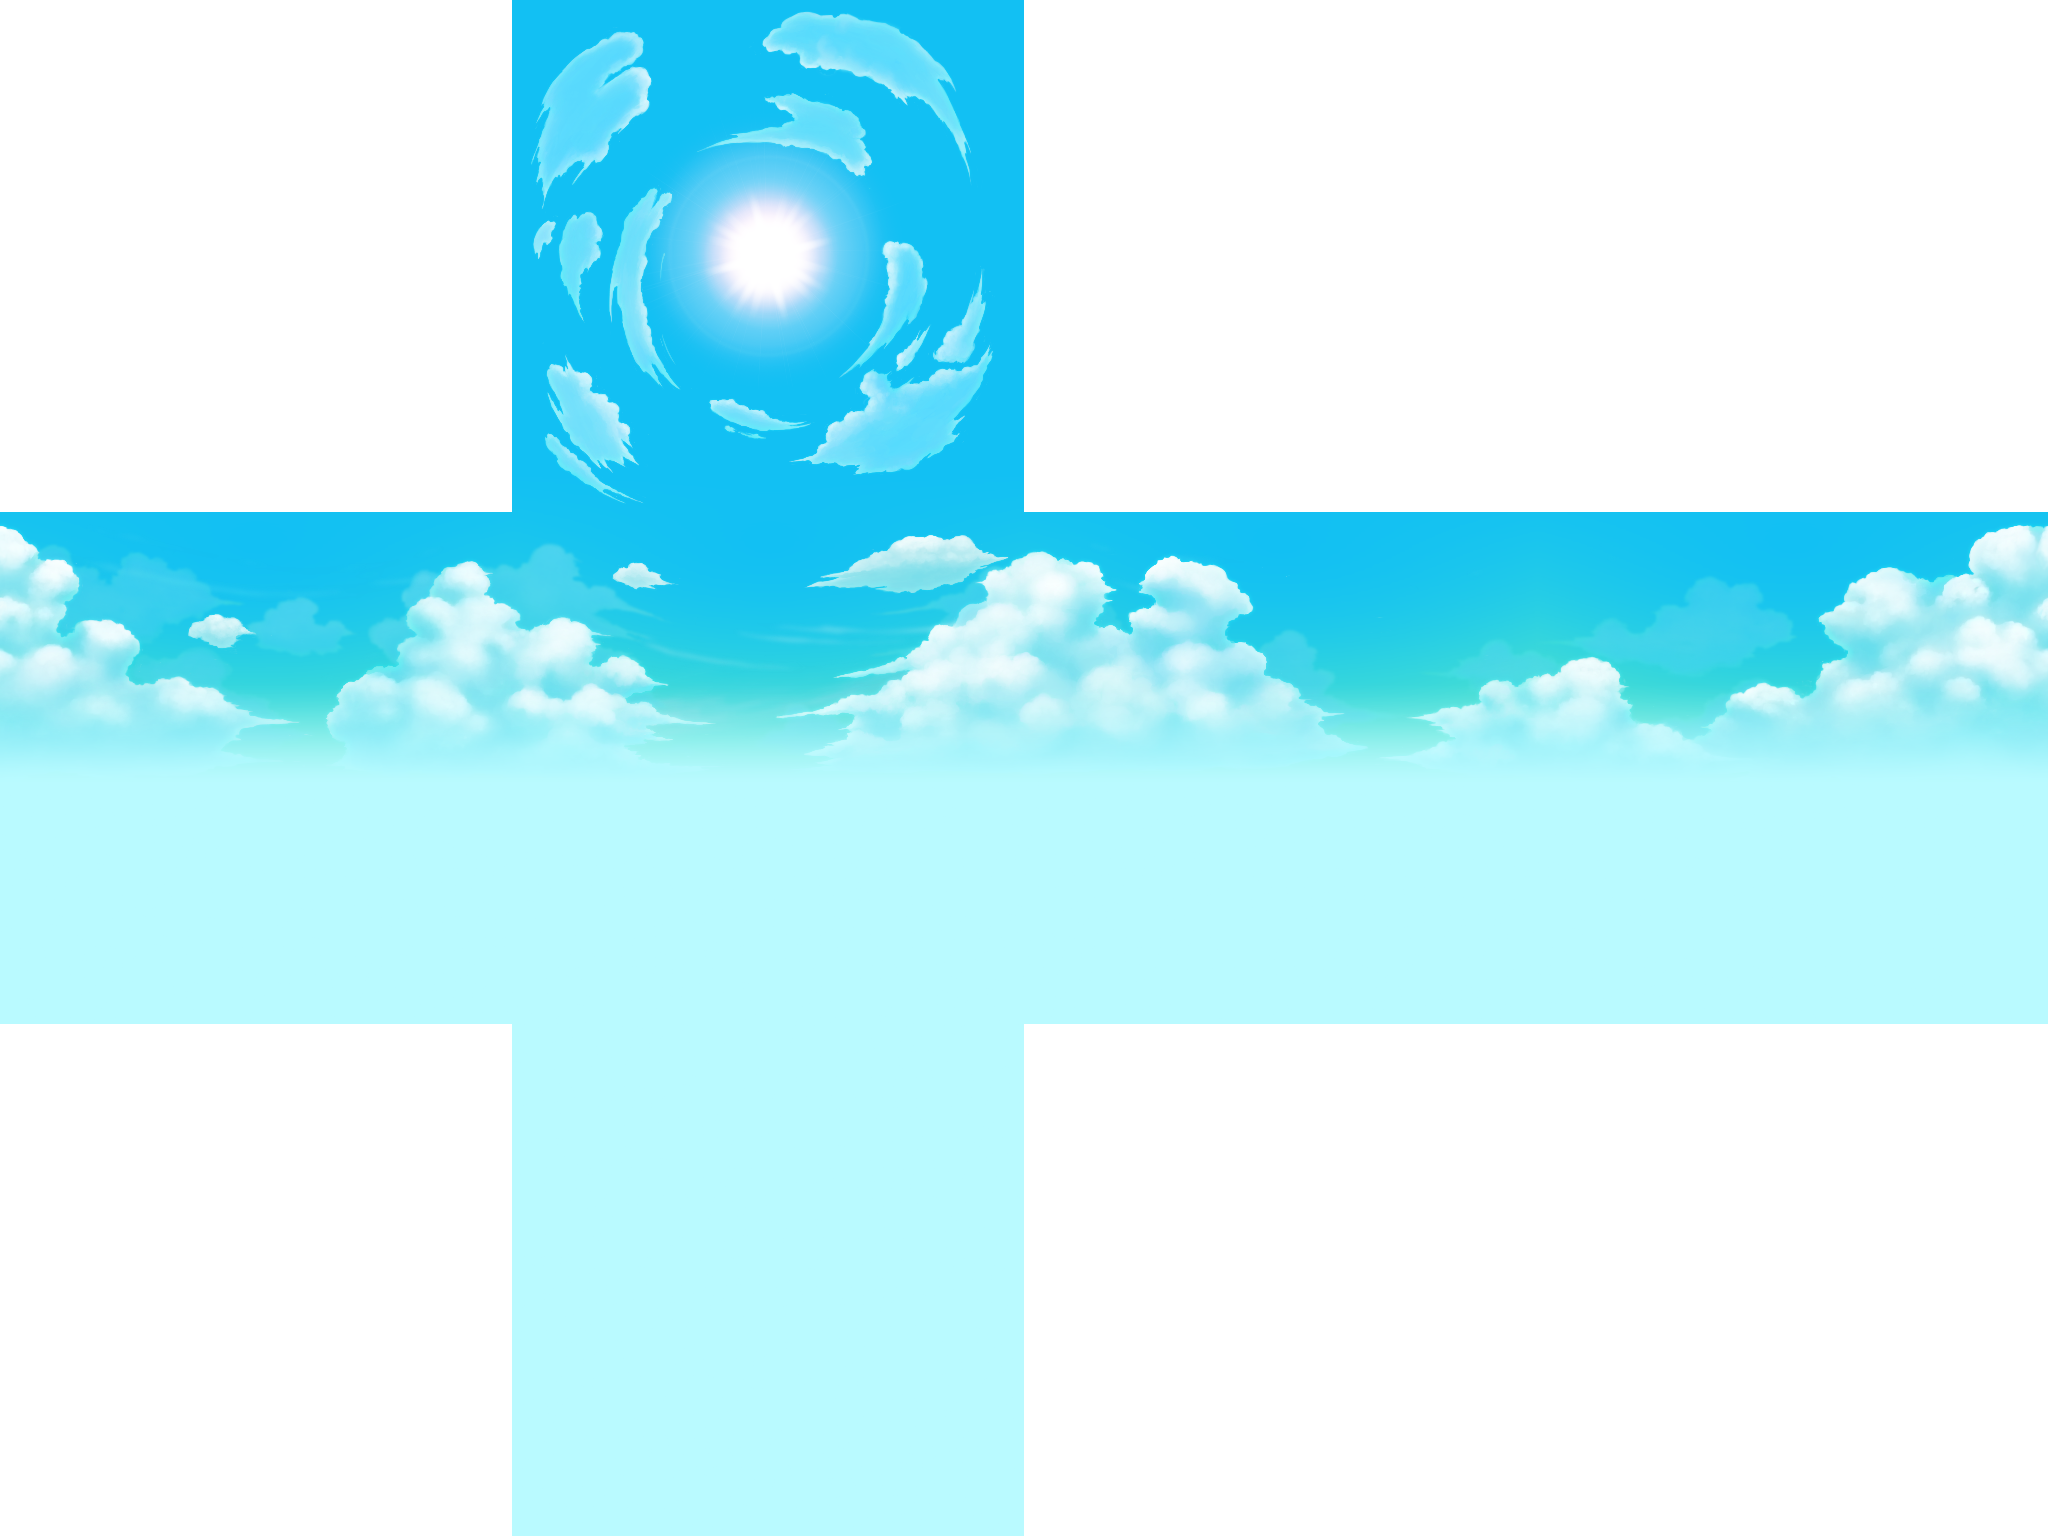
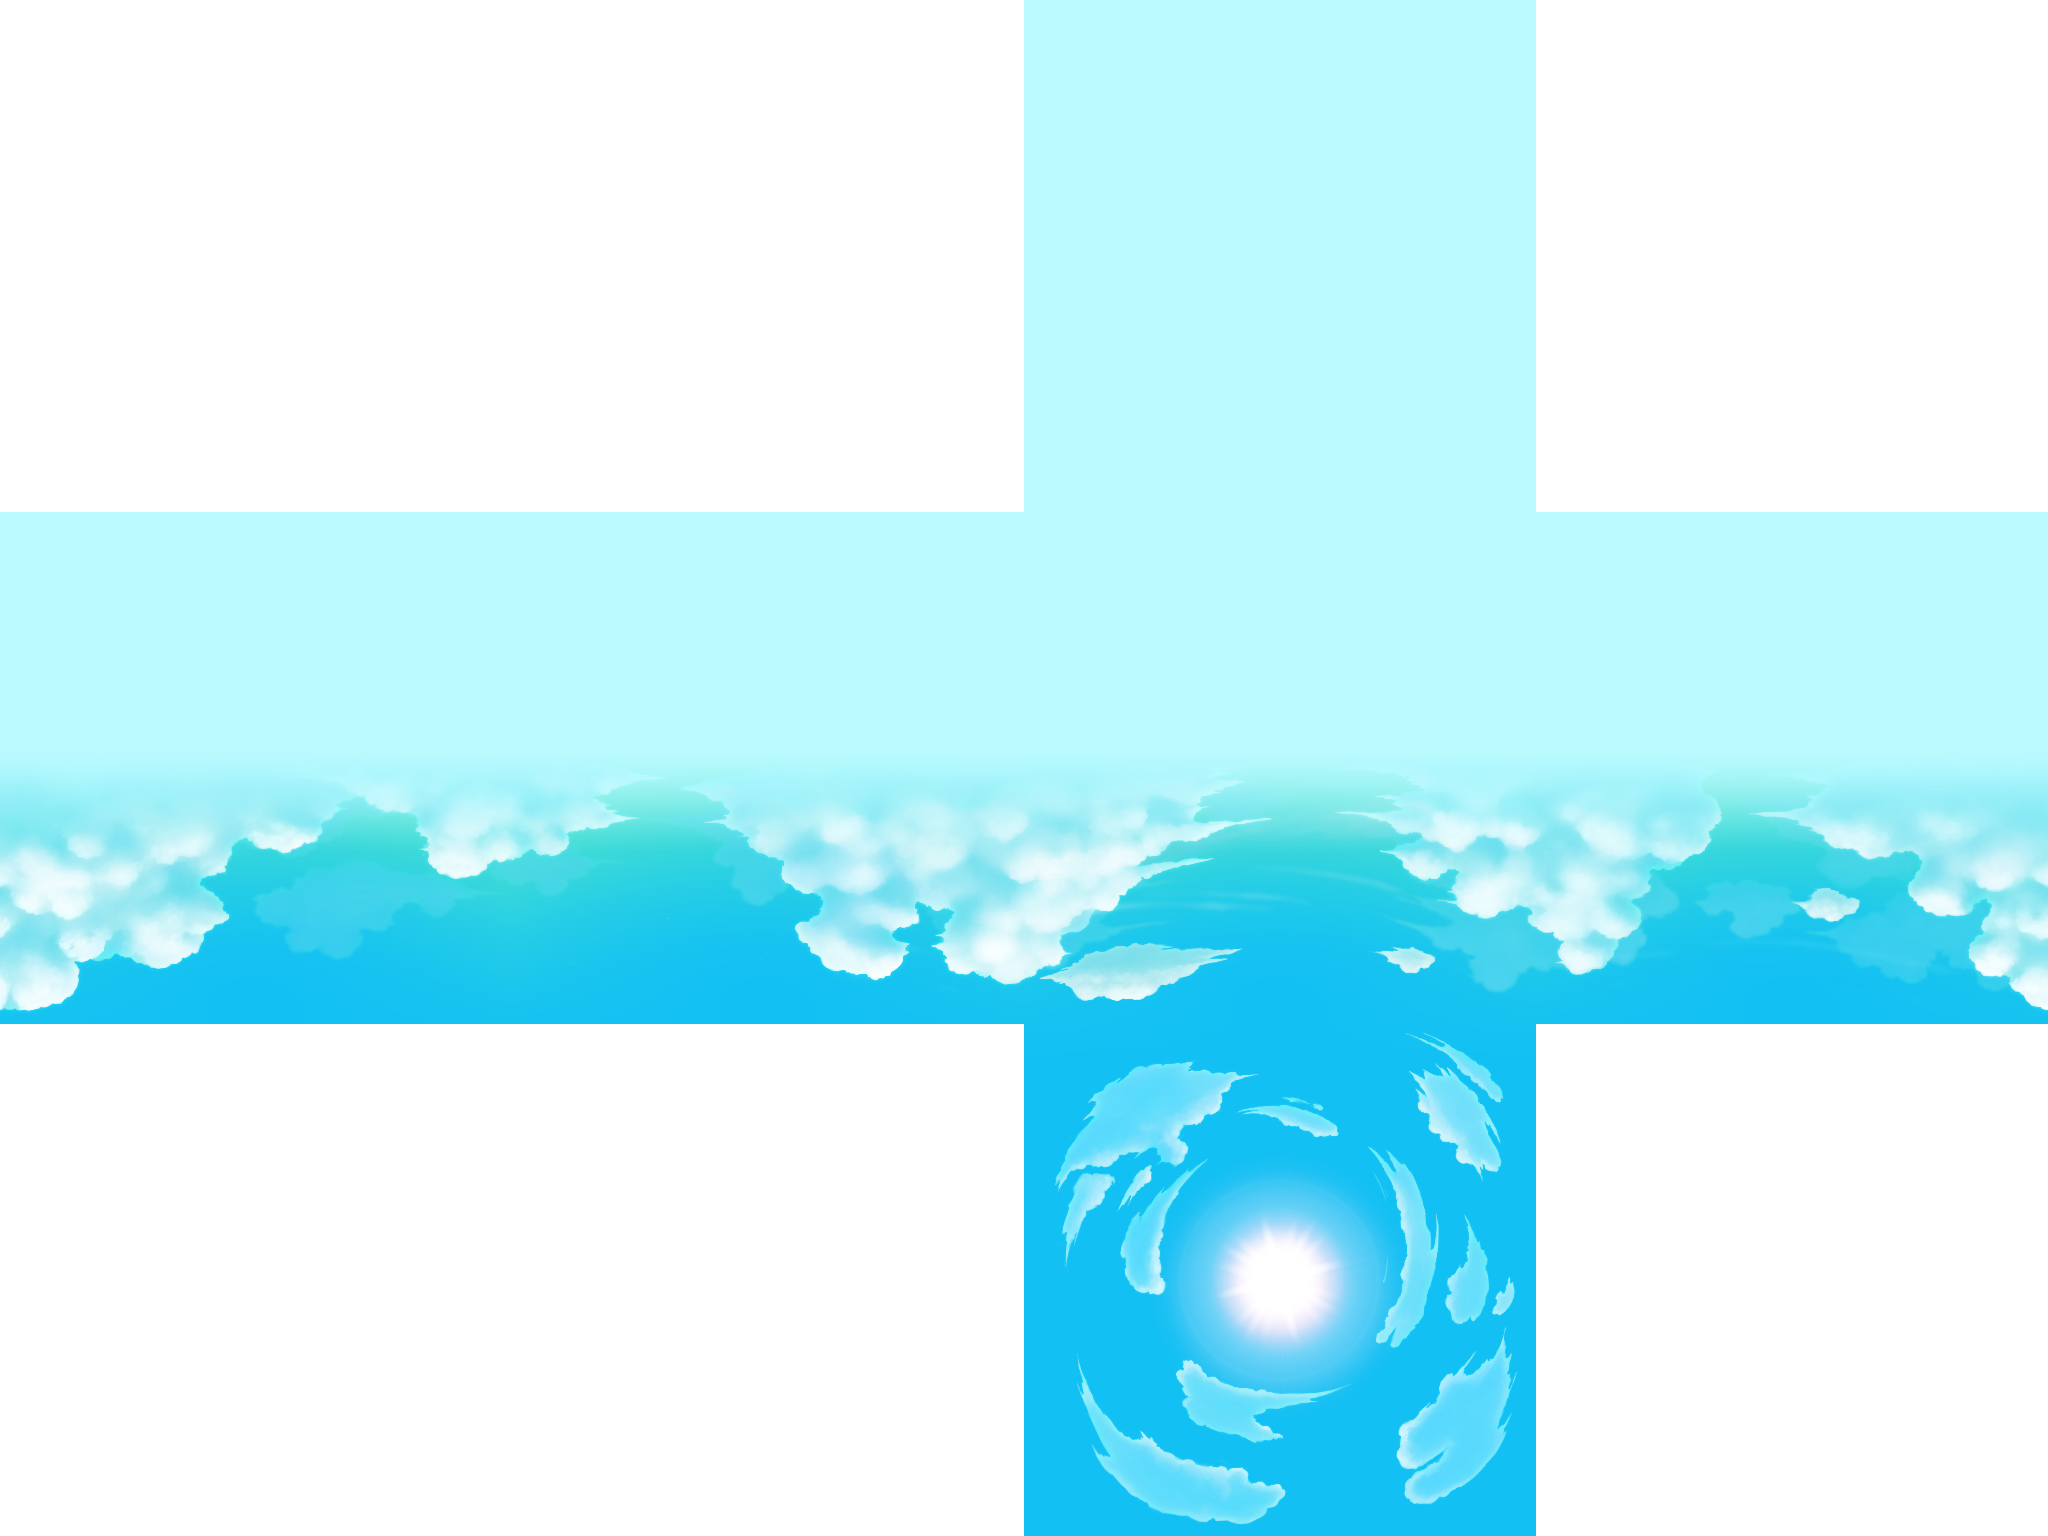
Fixed values

diff --git a/yocto/minicraft/src/engine_minicraft.h b/yocto/minicraft/src/engine_minicraft.h
@@ -101,7 +101,7 @@ public :
 		VboSun->setElementDescription(2, YVbo::Element(2)); //UV
 
 		VboSun->createVboCpu();
-		fillVBOCube(VboSun, 0, 0, 10, 2);
+		fillVBOCube(VboSun, 0, 0, 3, 2);
 		VboSun->createVboGpu();
 		VboSun->deleteVboCpu();
 
@@ -127,9 +127,9 @@ public :
 		//rainParticles->updateParticles(elapsed);
 		//rainParticles->renderParticules();
 
-		//Avatar->update(elapsed);
-		//Avatar->Run = GetKeyState(VK_LSHIFT) & 0x80;
-		//Renderer->Camera->moveTo(Avatar->Position + YVec3f(0, 0, Avatar->CurrentHeight / 2));
+		Avatar->update(elapsed);
+		Avatar->Run = GetKeyState(VK_LSHIFT) & 0x80;
+		Renderer->Camera->moveTo(Avatar->Position + YVec3f(0, 0, Avatar->CurrentHeight / 2));
 	}
 
 	void renderObjects()
@@ -399,7 +399,7 @@ public :
 			Camera->move(Camera->RightVec * camSpeed);
 		}
 
-		/*if (key == 'z')
+		if (key == 'z')
 			Avatar->avance = down;
 		if (key == 's')
 			Avatar->recule = down;
@@ -421,7 +421,7 @@ public :
 				Camera->Position + Camera->Direction * 30,
 				inter, xC, yC, zC);
 			World->deleteCube(xC, yC, zC);
-		}*/
+		}
 	}
 
 	void mouseWheel(int wheel, int dir, int x, int y, bool inUi)

diff --git a/yocto/minicraft/src/skybox.h b/yocto/minicraft/src/skybox.h
@@ -21,7 +21,7 @@ public:
 		ShaderSkybox = Renderer->createProgram("shaders/skybox");
 
 		texture_manager = YTexManager::getInstance();
-		skybox = texture_manager->loadTextureFromDisk("FS000_Day_01.png");
+		skybox = texture_manager->loadTextureFromDisk("FS000_Day_02_Sunless.png");
 		texture_manager->loadTextureToOgl(*skybox);
 
 		VboSkybox = new YVbo(3, 36, YVbo::PACK_BY_ELEMENT_TYPE);
@@ -30,11 +30,12 @@ public:
 		VboSkybox->setElementDescription(2, YVbo::Element(2)); //UV
 
 		VboSkybox->createVboCpu();
-		fillVBOCube(VboSkybox, 0, 0, -5, 1000);
+		fillVBOCube(VboSkybox, 0, 0, 0, 1000);
 		VboSkybox->createVboGpu();
 		VboSkybox->deleteVboCpu();
 	}
 
+	//Redefined the function to take in account the texture
 	void fillVBOCube(YVbo* vbo, int x, int y, int z, float size = 5.0f)
 	{
 		int iVertice = 0;

diff --git a/yocto/minicraft/src/world.h b/yocto/minicraft/src/world.h
@@ -156,7 +156,7 @@ public:
 
 		for (int x = 0; x < MAT_SIZE_CUBES; x++)
 			for (int y = 0; y < MAT_SIZE_CUBES; y++)
-				for (int z = MAT_HEIGHT_CUBES; z > 0; z--)
+				for (int z = 45; z > 0; z--)
 				{
 					Perlin.DoPenaltyMiddle = true;
 					Perlin.setFreq(0.04f);
@@ -169,10 +169,14 @@ public:
 
 					if (val > 0.5f)
 					{
-						cube->setType(MCube::CUBE_HERBE);
+						if (z < 24) cube->setType(MCube::CUBE_PIERRE);
+						else cube->setType(MCube::CUBE_HERBE);
 					}
 					if (val > 0.51f)
-						cube->setType(MCube::CUBE_TERRE);
+					{
+						if (z < 24) cube->setType(MCube::CUBE_PIERRE);
+						else cube->setType(MCube::CUBE_TERRE);
+					}
 					if (val < 0.5 && z <= 0.1)
 						cube->setType(MCube::CUBE_EAU);
 					if (val > 0.56)
